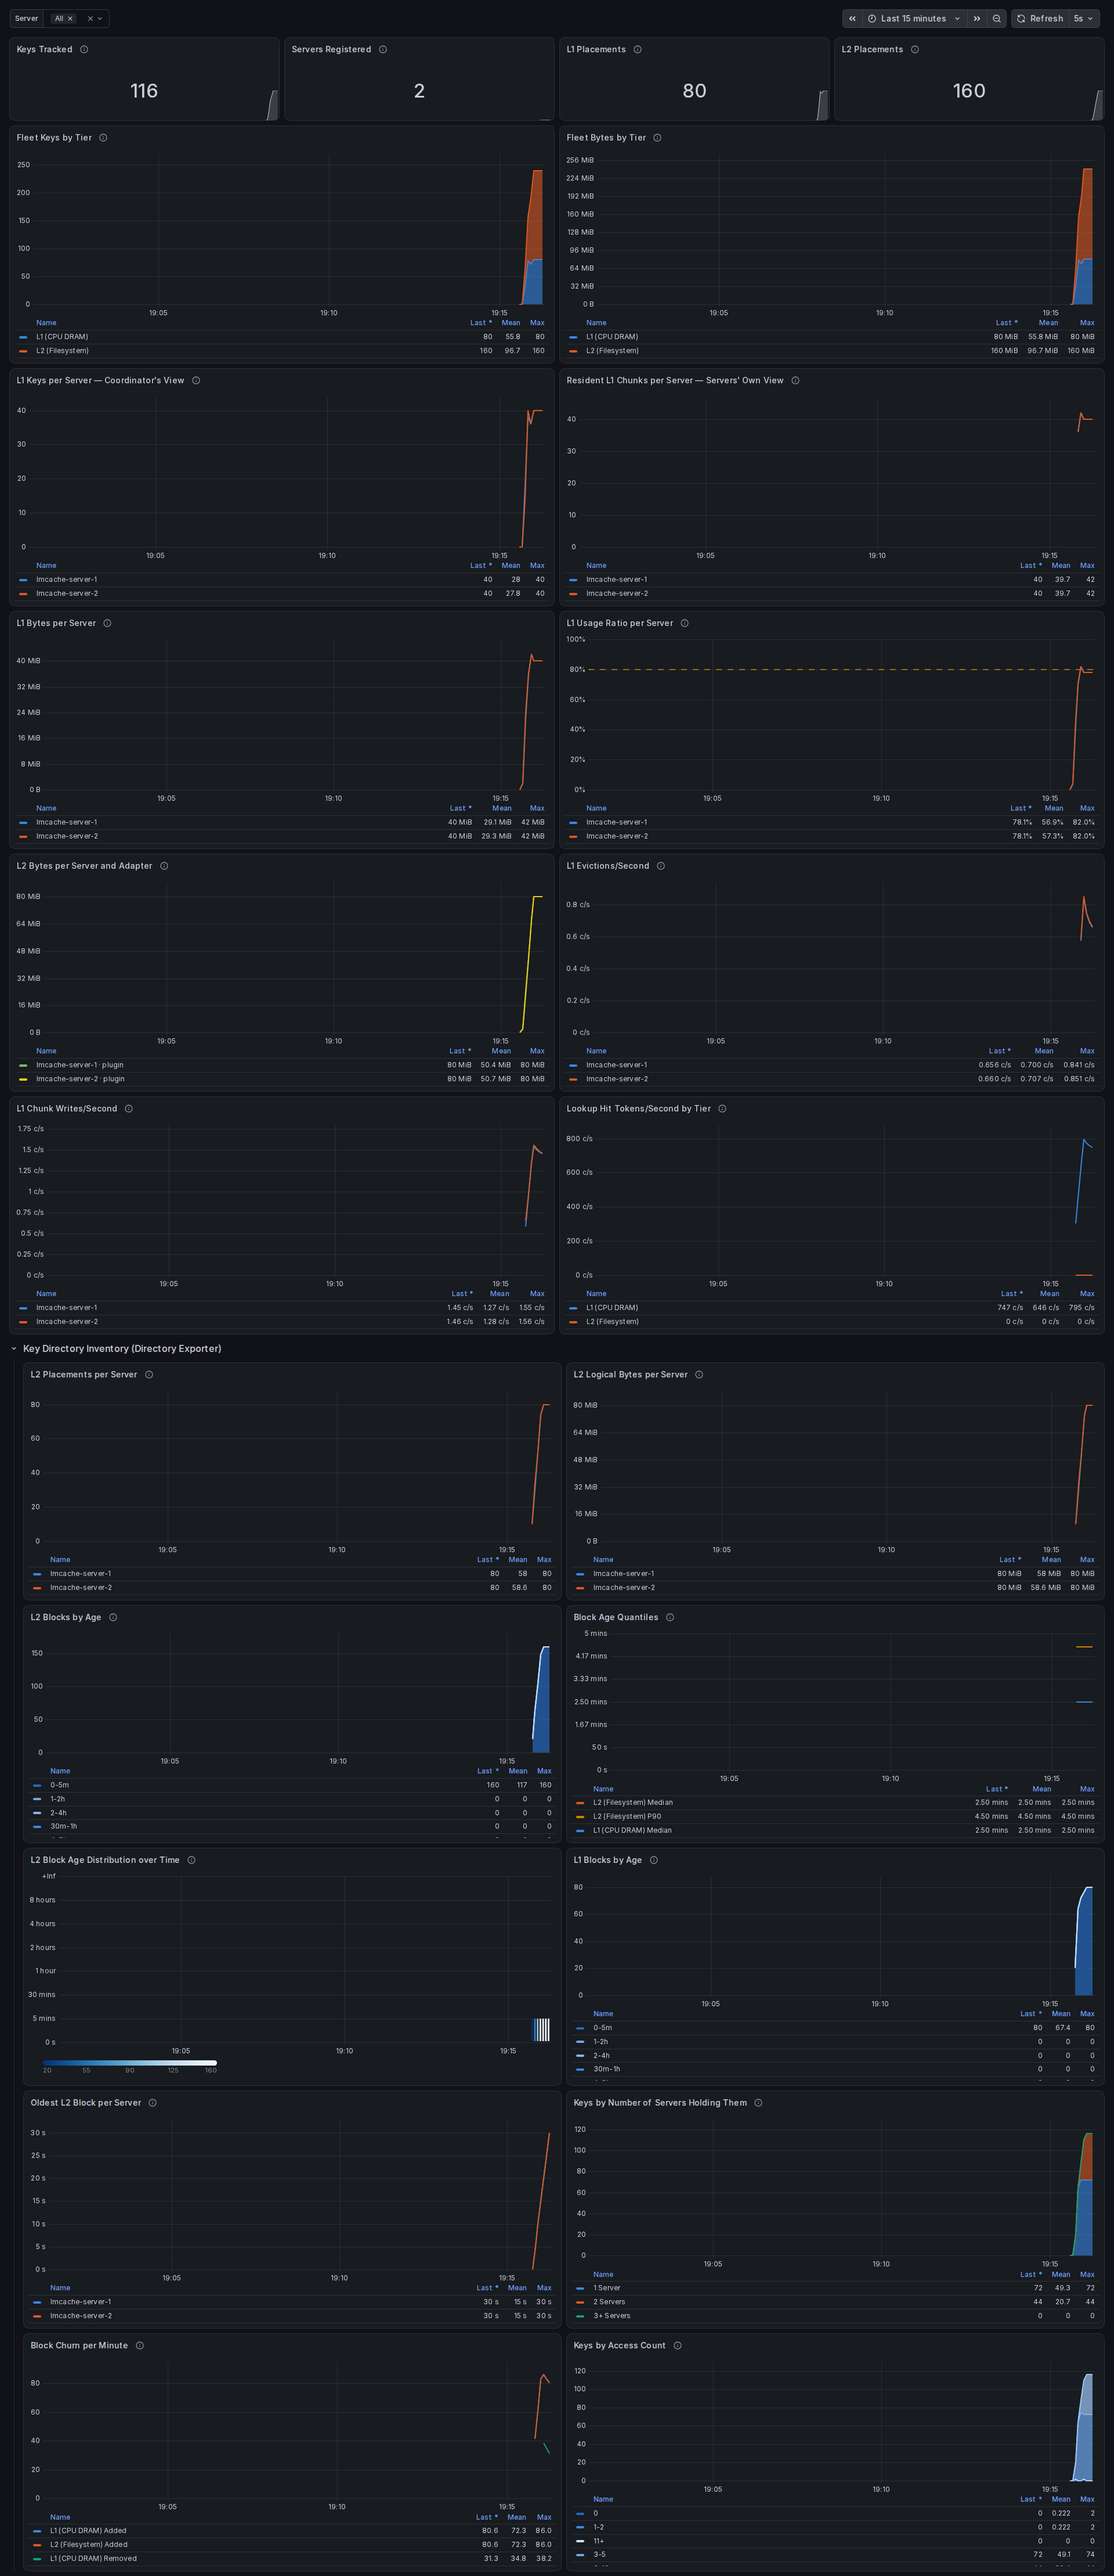
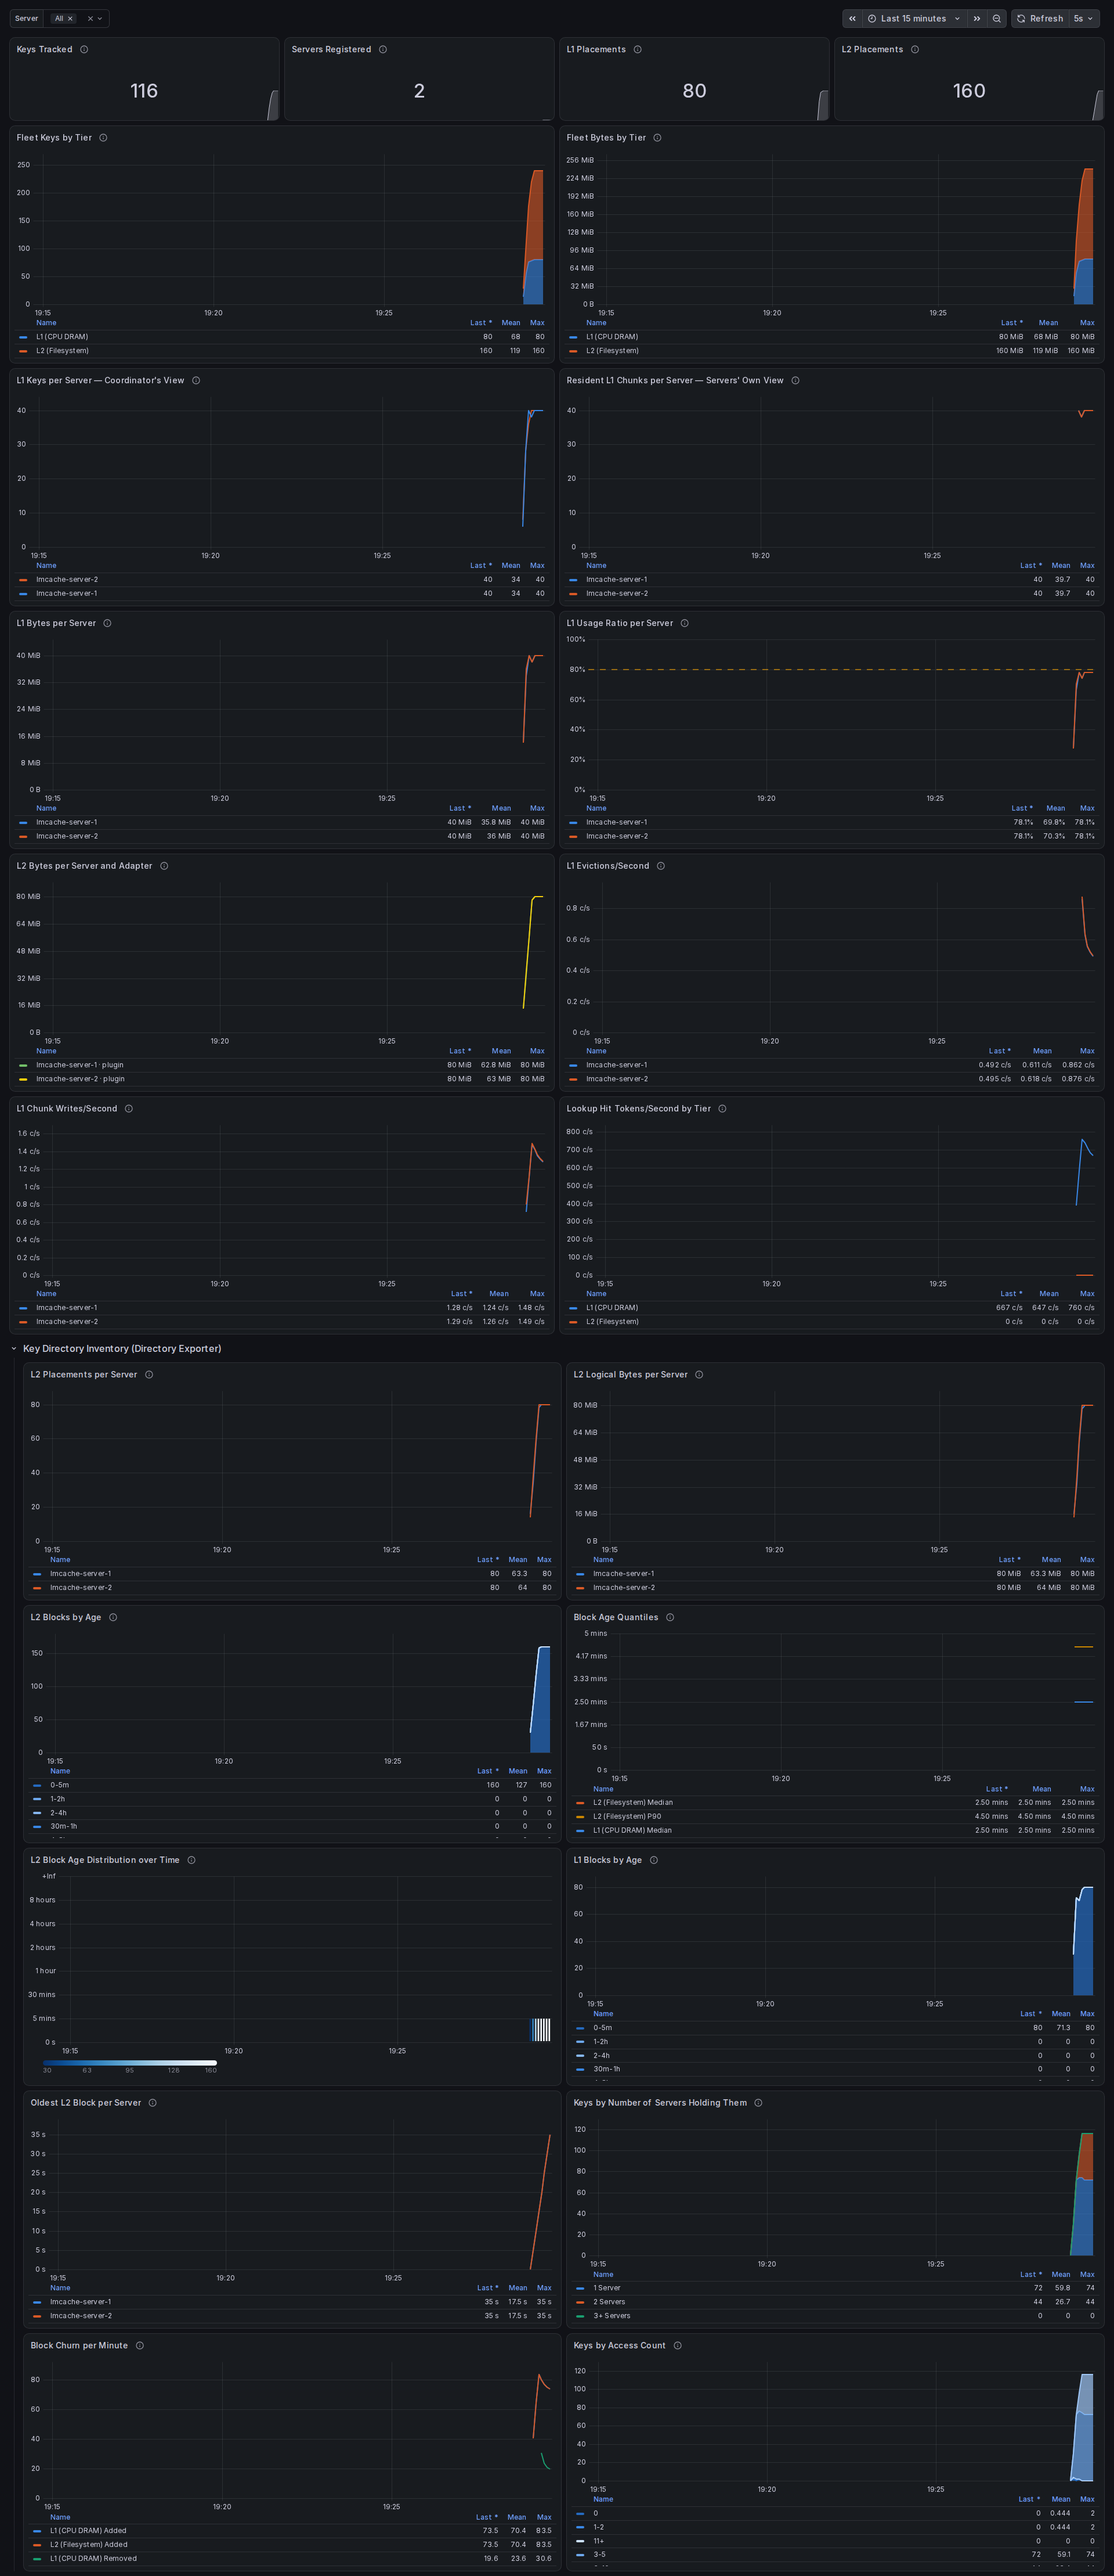
chore: refresh dashboard screenshot 5c30bf9ffb374fe19db5983575e52941f661316e

diff --git a/index.html b/index.html
@@ -10,8 +10,8 @@
 </style>
 <header>
   <strong>LMCache Fleet</strong> — Grafana dashboard from the last
-  <a href="https://github.com/sbates130272/lmcache-fleet/actions/runs/45467777991">smoke-test run</a>
-  on main (<code>ba224029c93cf084ab1eddd6be5a88bbe3493641</code>), a two-server fleet with L1 and
+  <a href="https://github.com/sbates130272/lmcache-fleet/actions/runs/45470301105">smoke-test run</a>
+  on main (<code>5c30bf9ffb374fe19db5983575e52941f661316e</code>), a two-server fleet with L1 and
   L2 both populated.
 </header>
 <img src="grafana-dashboard.png" alt="LMCache fleet Grafana dashboard">
